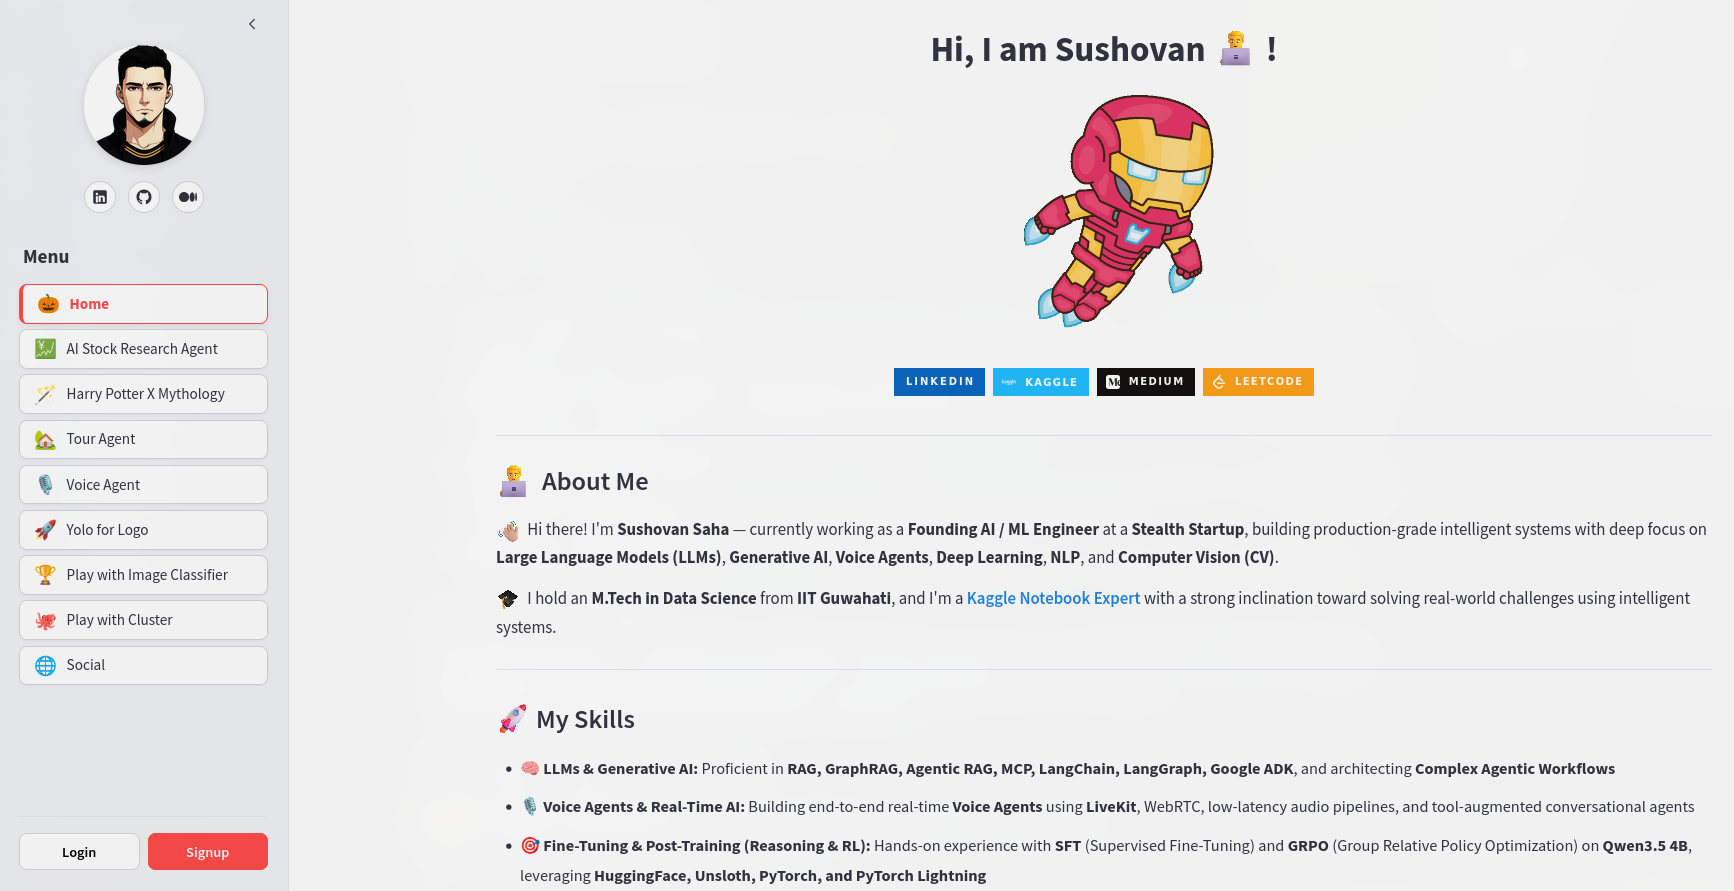
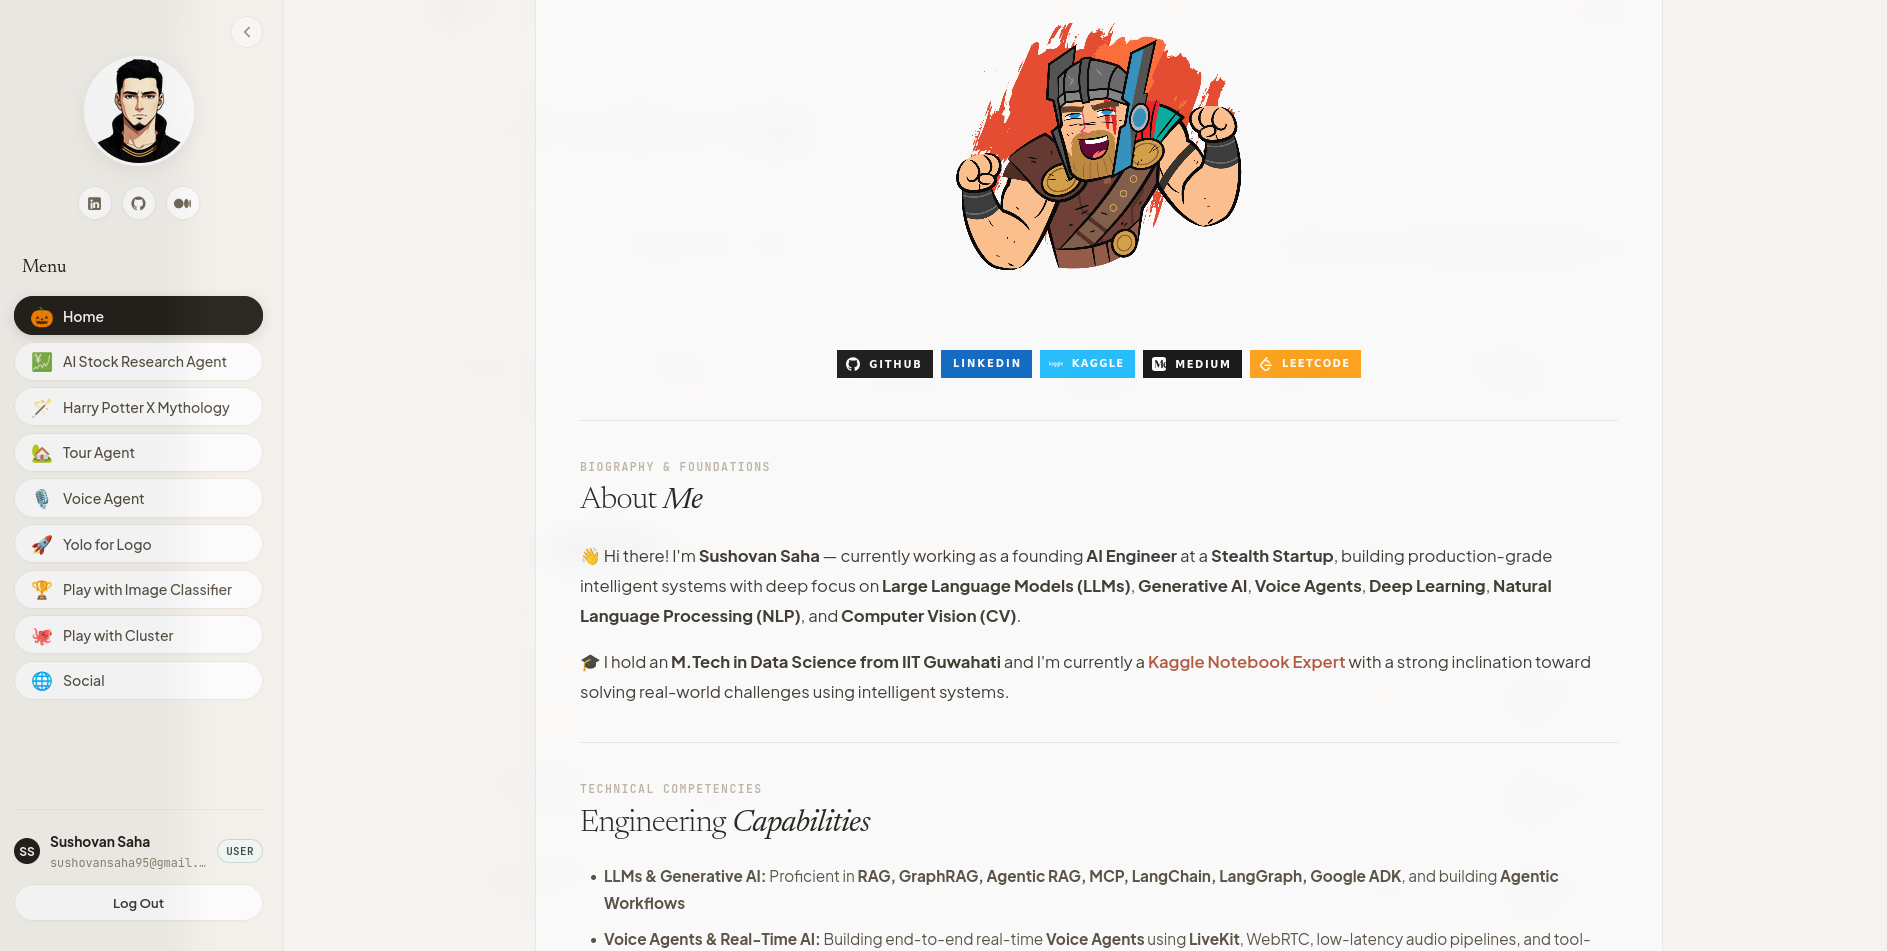
docs(hero,arch): update hero screenshot, compact system architecture with Vercel and GitHub Actions CI/CD

diff --git a/README.md b/README.md
@@ -1,24 +1,26 @@
 # ⚡ ambideXtrous · Autonomous AI Portfolio & Multi-Agent Intelligence Hub
 
 <p align="center">
-  <img src="frontend/assets/images/portfolio_hero.png" alt="ambideXtrous AI Portfolio Workspace" width="100%" style="border-radius: 10px; box-shadow: 0 8px 30px rgba(0,0,0,0.12);"/>
+  <img src="frontend/assets/images/portfolio_hero.png" alt="ambideXtrous AI Portfolio Workspace" width="100%" style="border-radius: 12px; box-shadow: 0 10px 30px rgba(0,0,0,0.15); border: 1px solid #eaeaea;"/>
 </p>
 
 <p align="center">
+  <a href="https://github.com/ambideXtrous9/portfolio-agent/actions"><img src="https://img.shields.io/badge/GitHub%20Actions-CI%2FCD-2088FF?style=for-the-badge&logo=githubactions&logoColor=white" alt="GitHub Actions"/></a>
+  <a href="https://vercel.com/"><img src="https://img.shields.io/badge/Vercel-Serverless%20Edge-000000?style=for-the-badge&logo=vercel&logoColor=white" alt="Vercel"/></a>
   <a href="https://fastapi.tiangolo.com"><img src="https://img.shields.io/badge/FastAPI-0.115+-009688?style=for-the-badge&logo=fastapi&logoColor=white" alt="FastAPI"/></a>
-  <a href="https://python.org"><img src="https://img.shields.io/badge/Python-3.12%20%7C%203.13-3776AB?style=for-the-badge&logo=python&logoColor=white" alt="Python"/></a>
+  <a href="https://python.org"><img src="https://img.shields.io/badge/Python-3.12-3776AB?style=for-the-badge&logo=python&logoColor=white" alt="Python 3.12"/></a>
   <a href="https://langchain-ai.github.io/langgraph/"><img src="https://img.shields.io/badge/LangGraph-StateGraph%20v0.2+-1C3C3C?style=for-the-badge&logo=langchain&logoColor=white" alt="LangGraph"/></a>
   <a href="https://neon.tech/"><img src="https://img.shields.io/badge/Neon-Serverless%20Postgres-00E599?style=for-the-badge&logo=postgresql&logoColor=black" alt="Neon Postgres"/></a>
   <a href="https://huggingface.co/ambideXtrous9/brand-logo-classifiers"><img src="https://img.shields.io/badge/HuggingFace-Model%20Hub-FFD21E?style=for-the-badge&logo=huggingface&logoColor=black" alt="Hugging Face"/></a>
+  <a href="https://livekit.io/"><img src="https://img.shields.io/badge/LiveKit-WebRTC%20Voice-00A67E?style=for-the-badge&logo=livekit&logoColor=white" alt="LiveKit"/></a>
   <a href="https://www.pinecone.io/"><img src="https://img.shields.io/badge/Pinecone-8.9k%20Vectors-000000?style=for-the-badge&logo=pinecone&logoColor=white" alt="Pinecone"/></a>
-  <a href="https://jwt.io/"><img src="https://img.shields.io/badge/JWT-Auth%20Guard-000000?style=for-the-badge&logo=jsonwebtokens&logoColor=white" alt="JWT"/></a>
+  <a href="https://jwt.io/"><img src="https://img.shields.io/badge/JWT-Argon2id%20Auth-000000?style=for-the-badge&logo=jsonwebtokens&logoColor=white" alt="JWT"/></a>
   <a href="https://modelcontextprotocol.io/"><img src="https://img.shields.io/badge/MCP-MultiServer-7B1FA2?style=for-the-badge" alt="MCP"/></a>
-  <a href="https://docker.com"><img src="https://img.shields.io/badge/Docker-Compose%20Ready-2496ED?style=for-the-badge&logo=docker&logoColor=white" alt="Docker"/></a>
-  <a href="https://opensource.org/licenses/MIT"><img src="https://img.shields.io/badge/License-MIT-F7DF1E?style=for-the-badge" alt="License"/></a>
+  <a href="https://docker.com"><img src="https://img.shields.io/badge/Docker-Ready-2496ED?style=for-the-badge&logo=docker&logoColor=white" alt="Docker"/></a>
 </p>
 
 <p align="center">
-  <b>A production-grade, decoupled Multi-Agent AI Platform featuring LangGraph StateGraphs, standalone Neon Serverless PostgreSQL persistence, dynamic Hugging Face Hub model checkpointing, multi-server Model Context Protocol (MCP), Pinecone vector retrieval, JWT authentication, and real-time streaming interfaces.</b>
+  <b>A production-grade, decoupled Multi-Agent AI Platform featuring LangGraph StateGraphs, standalone Neon Serverless PostgreSQL persistence, dynamic Hugging Face Hub model checkpointing, multi-server Model Context Protocol (MCP), Pinecone vector retrieval, JWT authentication, and automated GitHub Actions CI/CD to Vercel Serverless.</b>
 </p>
 
 ---
@@ -27,69 +29,70 @@
 
 ### 🌐 Live Production Deployments
 
-| Resource | URL | Status |
-| :--- | :--- | :--- |
-| **Live Production Web App** | [`portfolio-agent-ai.vercel.app`](https://portfolio-agent-ai.vercel.app) | 🟢 `Online` |
-| **Interactive OpenAPI Docs** | [`/docs`](https://portfolio-agent-ai.vercel.app/docs) | 🟢 `Public` |
-| **Alternative API Specs** | [`/redoc`](https://portfolio-agent-ai.vercel.app/redoc) | 🟢 `Public` |
-| **Database Service** | [Neon Serverless Postgres](https://neon.tech/) (AWS `iad1`) | 🟢 `Managed Cloud` |
-| **Model Checkpoint Hub** | [`ambideXtrous9/brand-logo-classifiers`](https://huggingface.co/ambideXtrous9/brand-logo-classifiers) | 🤗 `Public Hub` |
-| **Authentication Guard** | Sign In / Register (All AI features protected) | 🔒 `Enforced` |
+| Resource | Service / Provider | URL / Identifier | Status |
+| :--- | :--- | :--- | :--- |
+| **Production Web App** | ▲ Vercel Global Edge CDN | [`portfolio-agent-ai.vercel.app`](https://portfolio-agent-ai.vercel.app) | 🟢 `Online` |
+| **API & OpenAPI Specs** | ⚡ FastAPI Serverless | [`/docs`](https://portfolio-agent-ai.vercel.app/docs) &bull; [`/redoc`](https://portfolio-agent-ai.vercel.app/redoc) | 🟢 `Public` |
+| **CI/CD Automation** | 🐙 GitHub Actions | [Workflows & Automated Deployment](https://github.com/ambideXtrous9/portfolio-agent/actions) | 🟢 `Passing` |
+| **Managed Database** | 🐘 Neon Serverless Postgres | AWS `us-east-1` (`iad1`) &bull; Vercel Storage | 🟢 `Active` |
+| **Model Checkpoint Hub** | 🤗 Hugging Face Hub | [`ambideXtrous9/brand-logo-classifiers`](https://huggingface.co/ambideXtrous9/brand-logo-classifiers) | 🟢 `Synced` |
+| **Voice Streaming Mesh** | 🎙 LiveKit Cloud | WebRTC Real-Time SFU | 🟢 `Connected` |
+| **Authentication Guard** | 🛡 PyJWT + Argon2id | Bearer Token Gating (AI Endpoints Protected) | 🔒 `Enforced` |
 
 </div>
 
 ---
 
-## ⚡ Architecture Overview
+## ⚡ System Architecture
 
-The platform is architected with a decoupled presentation SPA, an asynchronous FastAPI application gateway, LangGraph StateGraph agent execution engines, an external **Neon Serverless PostgreSQL** persistence service, and dynamic checkpoint streaming from **Hugging Face Hub**:
+The platform employs a modular, decoupled cloud architecture engineered for high availability, zero cold-start state loss, automated CI/CD deployment, and low-latency inference:
 
 ```mermaid
-flowchart TB
-    subgraph ClientLayer ["🖥 Presentation Layer (Decoupled SPA)"]
-        UI["Modern Responsive SPA\n(HTML5 / ES6+ Modules / CSS Variables)"]
-        ChatWorkspace["Agent Chat Workspace\n(Dedicated History Sidebar + Active Thread)"]
-        AuthModal["Auth Modal\n(Sign In / Register / Password Reset)"]
-    end
+flowchart LR
+    %% Modern, Compact & Proportional End-to-End System Architecture
 
-    subgraph GatewayLayer ["🚪 Gateway & Security Layer (FastAPI 0.115+)"]
-        AuthMiddleware["JWT Bearer & Query Token Auth Guard"]
-        Router["Master API Router (/api - Auth Guarded)"]
-        Lifespan["FastAPI Lifespan Manager\n(HF Checkpoint Sync + Pool Warmup)"]
-    end
-
-    subgraph AgentLayer ["🧠 Multi-Agent Orchestration (LangGraph StateGraph)"]
-        HarryAgent["Harry Potter Lore Scholar\n(Pinecone Vector Search + Comparative Epics)"]
-        TourAgent["Airbnb Tour Planner Agent\n(MultiServer MCP + Open-Meteo Weather)"]
-        StockEngine["Quantitative Equities Engine\n(Nifty 500 Scanner + Valuation Modeler)"]
-        VisionStudio["Vision AI Studio\n(27-Brand Neural Classifier + YOLO Detector)"]
-    end
-
-    subgraph PersistenceLayer ["💾 Standalone Data Layer (Neon Serverless Postgres)"]
+    subgraph CICD ["🐙 CI/CD & Delivery"]
         direction TB
-        NeonCloud[("🐘 Neon Serverless Postgres (AWS iad1)\n• Dedicated Cloud DB Service (Decoupled)\n• Autoscaling & Scale-to-Zero\n• PgBouncer Transaction Pooler\n• Enforced TLS (sslmode=require)")]
-        subgraph InternalDB ["Application DB Adapters"]
-            PGPool["psycopg_pool (AsyncConnectionPool)\n(prepare_threshold=None)"]
-            PGSaver["AsyncPostgresSaver\n(LangGraph State Checkpoints)"]
-            PGChat["PostgresChatMessageHistory\n(Thread Chat History)"]
-            PGAuth["Auth DB Manager\n(Users, Argon2id Hashes, Token Blacklist)"]
-        end
-        InternalDB <==>|"Encrypted Pooled Connection\n(DATABASE_URL / POSTGRES_URL)"| NeonCloud
+        Git["GitHub Repo\n(main branch)"]
+        GHA["GitHub Actions\n(Lint & Pytest)"]
+        Git -->|"Push / PR"| GHA
     end
 
-    subgraph ExternalServices ["🌐 External Integrations & Model Registries"]
-        PineconeDB[("Pinecone Vector DB\nIndex: hpvdb-openai")]
-        HFHub[("🤗 Hugging Face Hub\n(ambideXtrous9/brand-logo-classifiers)\nDynamic Startup Checkpoints Sync")]
-        MCPAirbnb["Airbnb MCP Server (Node.js stdio)"]
-        MeteoAPI["Open-Meteo Weather API"]
-        LLMProvider["Groq / OpenRouter / OpenAI (Llama-3.3-70B)"]
+    subgraph VercelEdge ["▲ Vercel Edge & Compute"]
+        direction TB
+        CDN["Vercel Global CDN\n(HTML5 / ES6+ SPA)"]
+        API["FastAPI Gateway\n(Python 3.12 / uv)"]
+        Auth["🛡 JWT & Argon2id\nAuth Guard"]
+        CDN -.->|"API Calls"| API
+        API --> Auth
     end
 
-    ClientLayer <--> GatewayLayer
-    GatewayLayer --> AgentLayer
-    AgentLayer <--> PersistenceLayer
-    AgentLayer <--> ExternalServices
-    Lifespan -.->|"Sync Checkpoints"| HFHub
+    subgraph Agents ["🧠 LangGraph Multi-Agent Core"]
+        direction TB
+        Harry["🪄 Harry Lore RAG\n(Pinecone + Epics)"]
+        Tour["🏡 Tour Planner\n(Airbnb MCP + Weather)"]
+        Stock["📈 Stock Quant\n(Breakout Scanner)"]
+        Vision["👁 Vision Studio\n(27-Brand Neural)"]
+        Voice["🎙 Voice Agent\n(LiveKit WebRTC)"]
+    end
+
+    subgraph DataCloud ["💾 Cloud Services & Registries"]
+        direction TB
+        Neon[("🐘 Neon Postgres (AWS iad1)\n• AsyncPostgresSaver\n• Users & Token Blacklist")]
+        HF[("🤗 Hugging Face Hub\n• Brand Checkpoints (.ckpt/.pt)\n• Dynamic Lifespan Sync")]
+        Pinecone[("🌲 Pinecone Vector DB\n• hpvdb-openai (8.9k chunks)")]
+        LiveKit[("📡 LiveKit Cloud\n• WebRTC Audio Mesh")]
+        Groq[("⚡ Groq & LLMs\n• Llama-3.3-70B")]
+    end
+
+    %% Connections
+    GHA -->|"Automated Deploy"| VercelEdge
+    Auth --> Agents
+    Agents <==>|"State & History"| Neon
+    Harry <-->|"8.9k Vectors"| Pinecone
+    Agents <-->|"Inference"| Groq
+    Vision -.->|"Download Weights"| HF
+    Voice <-->|"WebRTC Stream"| LiveKit
 ```
 
 ---
@@ -135,12 +138,13 @@ The PostgreSQL database hosting has been completely decoupled from the applicati
 | :--- | :--- | :--- |
 | **🪄 Harry Potter Lore Scholar** | LangGraph, Pinecone (`hpvdb-openai`), Groq | RAG agent querying 8,970 vector chunks with comparative Indian Epics synthesis and dedicated session history. |
 | **🏡 MCP Tour Planner** | LangGraph, Airbnb MCP Server, Open-Meteo | Live Airbnb stay rate lookup and 3-day weather forecasts streamed token-by-token via Server-Sent Events (SSE). |
-| **💾 Postgres Checkpointing** | LangGraph `AsyncPostgresSaver`, PostgreSQL 16 | Real-time thread state serialization, conversation resumption, and session lifecycle management. |
+| **🐘 Neon Checkpointing & Auth** | LangGraph `AsyncPostgresSaver`, Neon Postgres | Real-time thread state serialization, persistent multi-turn memory, and Argon2id session authentication. |
+| **🤗 HF Dynamic Checkpoints** | Hugging Face Hub, `huggingface_hub` | Dynamic lifespan startup synchronization of deep learning weights (.ckpt, .pt) keeping repo lightweight. |
 | **🛡 JWT Authentication Guard** | FastAPI, PyJWT, Argon2id | Strict authentication gating on all AI agent endpoints; public access limited strictly to Home. |
 | **📈 Stock Screener & Valuation** | Pandas, Technical Analysis, Valuation Models | 20-DMA volume breakout scanner across Nifty 500/Microcap 250 with automated institutional research reports. |
-| **👁 Vision AI & YOLO Detection** | PyTorch, YOLOv8 | 27-brand corporate logo neural classification with real-time bounding-box coordinates overlay. |
+| **👁 Vision AI & YOLO Detection** | PyTorch, YOLOv8, Timm | 27-brand corporate logo neural classification with real-time bounding-box coordinates overlay. |
 | **🐙 2D Clustering Sandbox** | Scikit-Learn, Plotly.js | Interactive 2D spatial canvas with real-time K-Means, DBSCAN, and Silhouette Coefficient evaluation. |
-| **🎙 Voice AI Agent** | LiveKit WebRTC, Groq, Silero VAD | Low-latency full-duplex conversational voice agent with live audio waveform visualization. |
+| **🎙 Voice AI Agent** | LiveKit WebRTC, Groq Whisper, Silero VAD | Low-latency full-duplex conversational voice agent with live audio waveform visualization. |
 
 ---
 
@@ -150,25 +154,25 @@ The PostgreSQL database hosting has been completely decoupled from the applicati
 sequenceDiagram
     autonumber
     actor User as 👤 User
-    participant FE as 🖥 Single-Page App
+    participant FE as 🖥 Vercel Edge SPA
     participant Auth as 🛡 FastAPI Auth Guard
-    participant Agent as 🧠 LangGraph Agent
+    participant Agent as 🧠 LangGraph Engine
     participant MCP as 🔌 MCP / Pinecone
-    participant DB as 🐘 Neon Serverless Postgres
-    participant LLM as 🤖 Groq LLM
+    participant DB as 🐘 Neon Serverless DB
+    participant LLM as ⚡ Groq Llama-3.3
 
     User->>FE: Ask question / Request Agent Plan
-    FE->>Auth: POST /api/harry/ask (Bearer Token)
-    Auth->>DB: Check Token Validity & Blacklist
-    DB-->>Auth: Token Valid
-    Auth->>Agent: Invoke StateGraph(thread_id, query)
+    FE->>Auth: POST /api/{agent}/ask (Bearer Token)
+    Auth->>DB: Validate Token & Revocation Blacklist
+    DB-->>Auth: Token Verified
+    Auth->>Agent: Invoke StateGraph(thread_id, state)
     Agent->>DB: Load Prior Checkpoint (AsyncPostgresSaver)
-    Agent->>MCP: Retrieve Context (Vectors / Tools)
-    Agent->>LLM: Stream Prompt with Context
+    Agent->>MCP: Retrieve Context (Vectors / MCP Tools)
+    Agent->>LLM: Stream Inference with Context
     LLM-->>Agent: Token Stream Output
     Agent->>DB: Persist Checkpoint & Append Chat Turn
     Agent-->>FE: Stream SSE Response (data: {"token": "..."})
-    FE-->>User: Render Markdown Live in UI
+    FE-->>User: Render Markdown Live in Workspace
 ```
 
 ---
